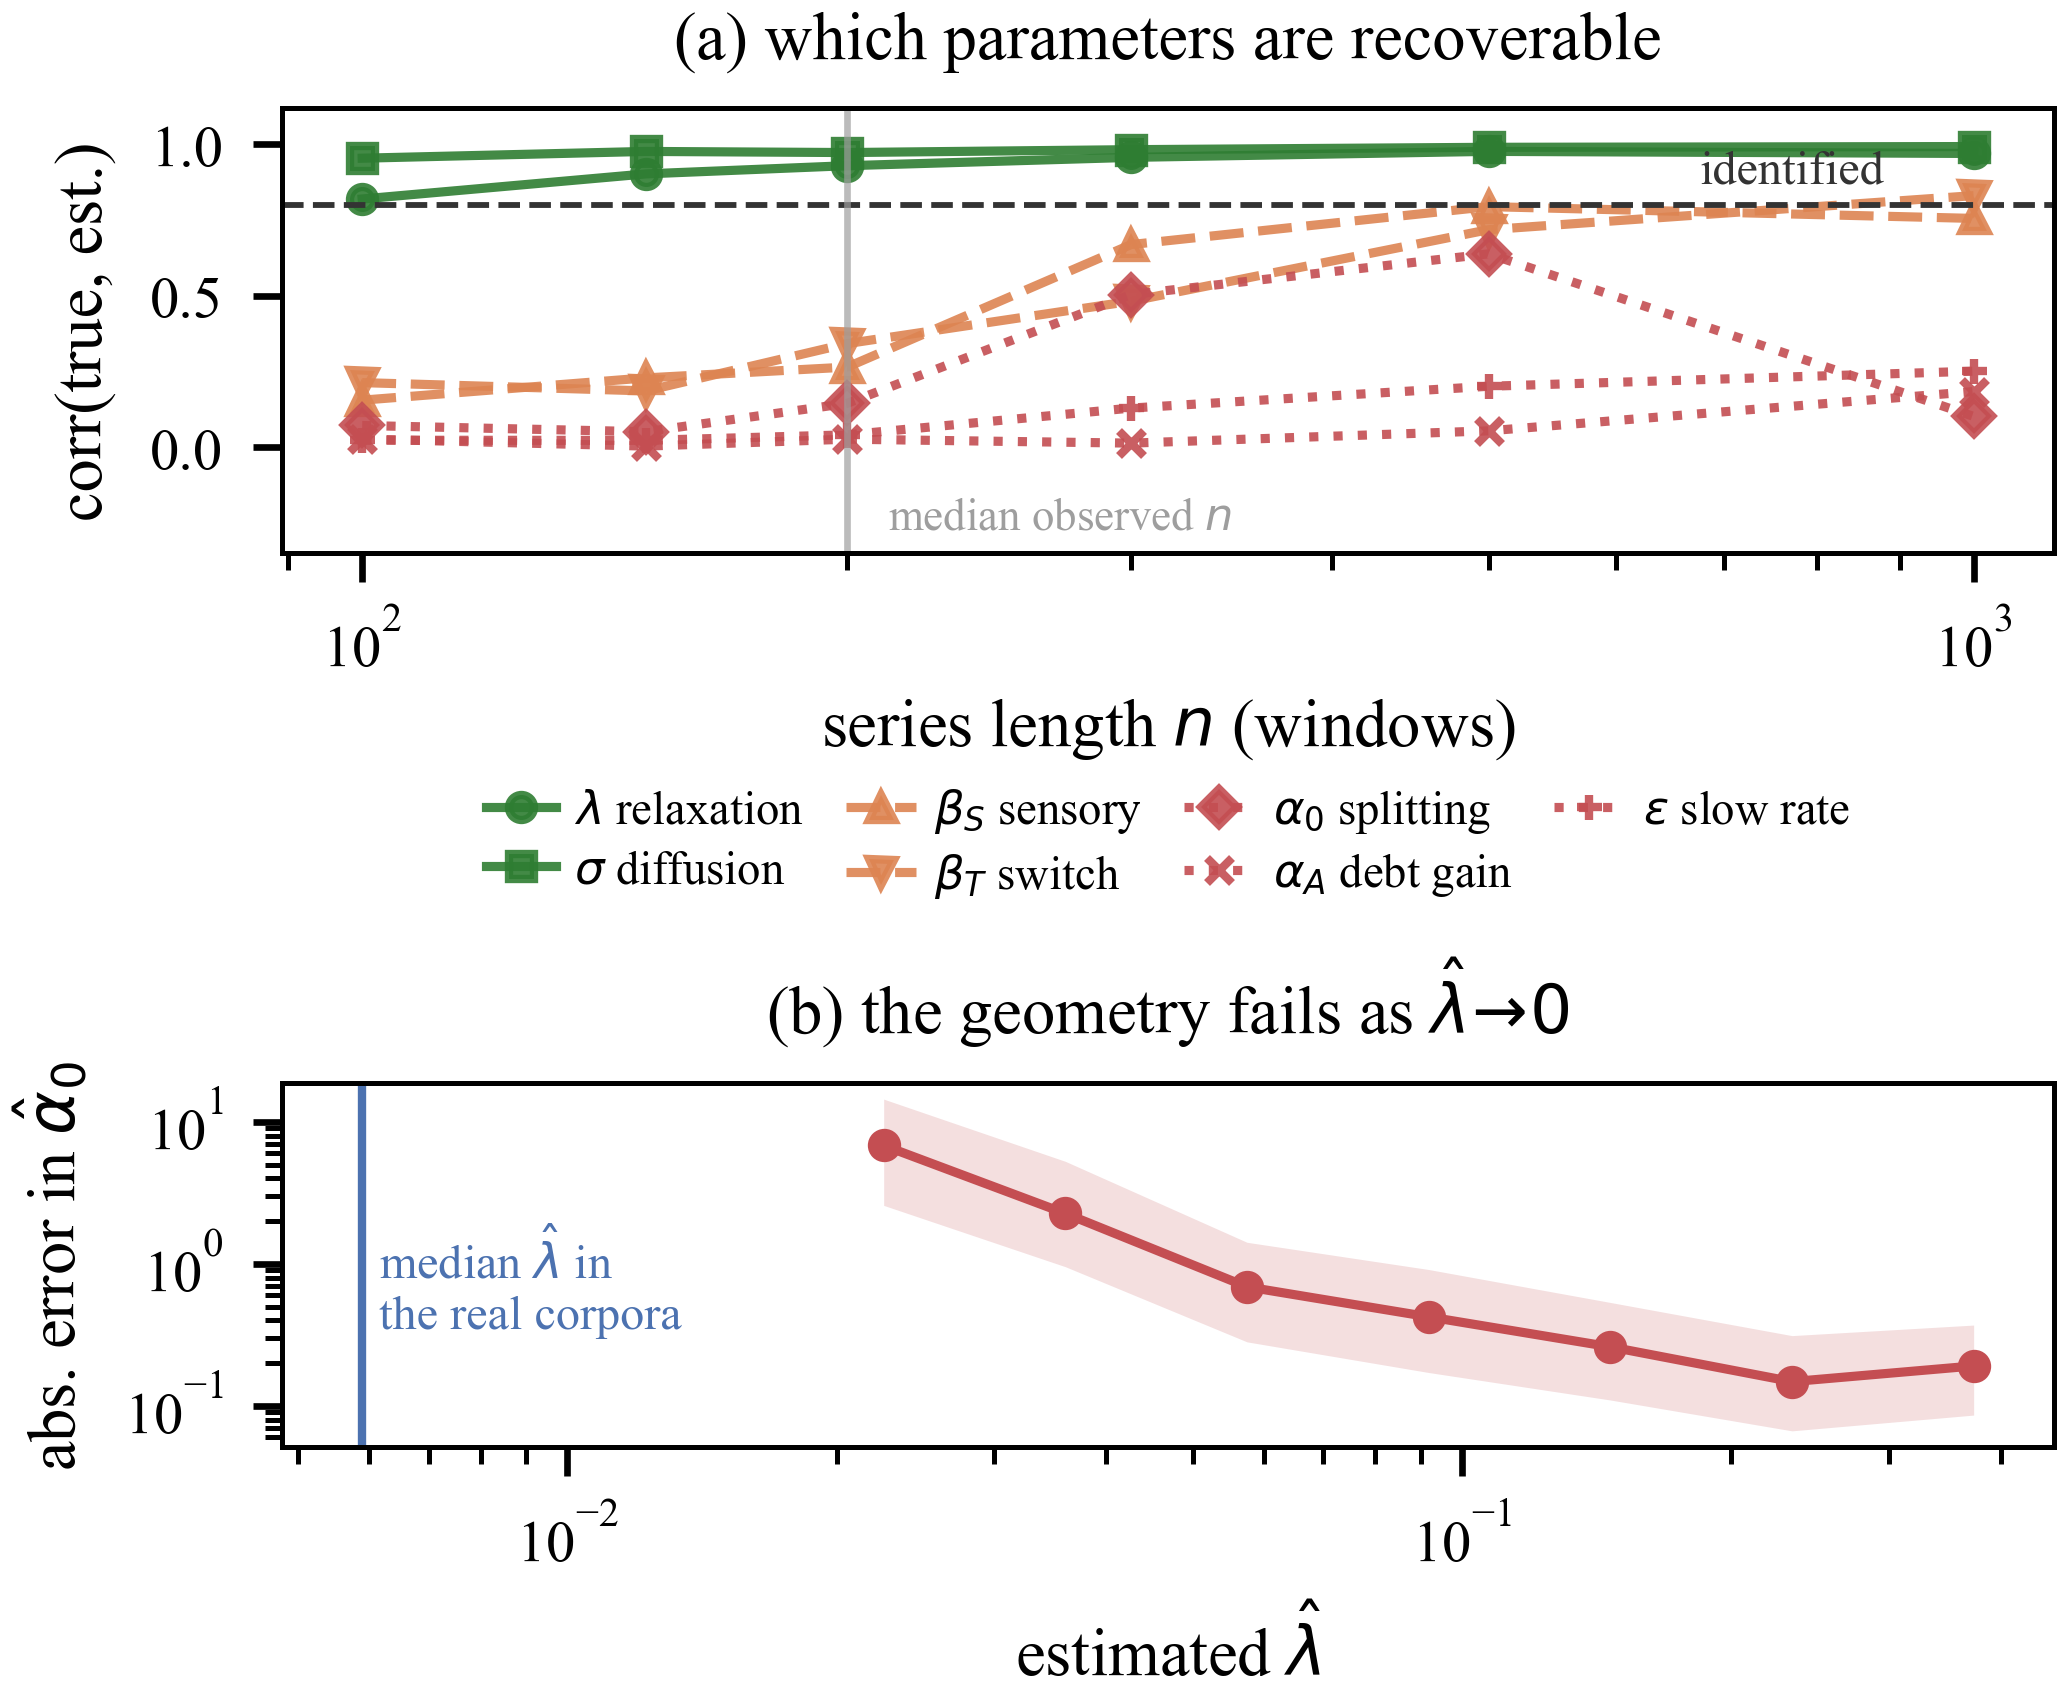
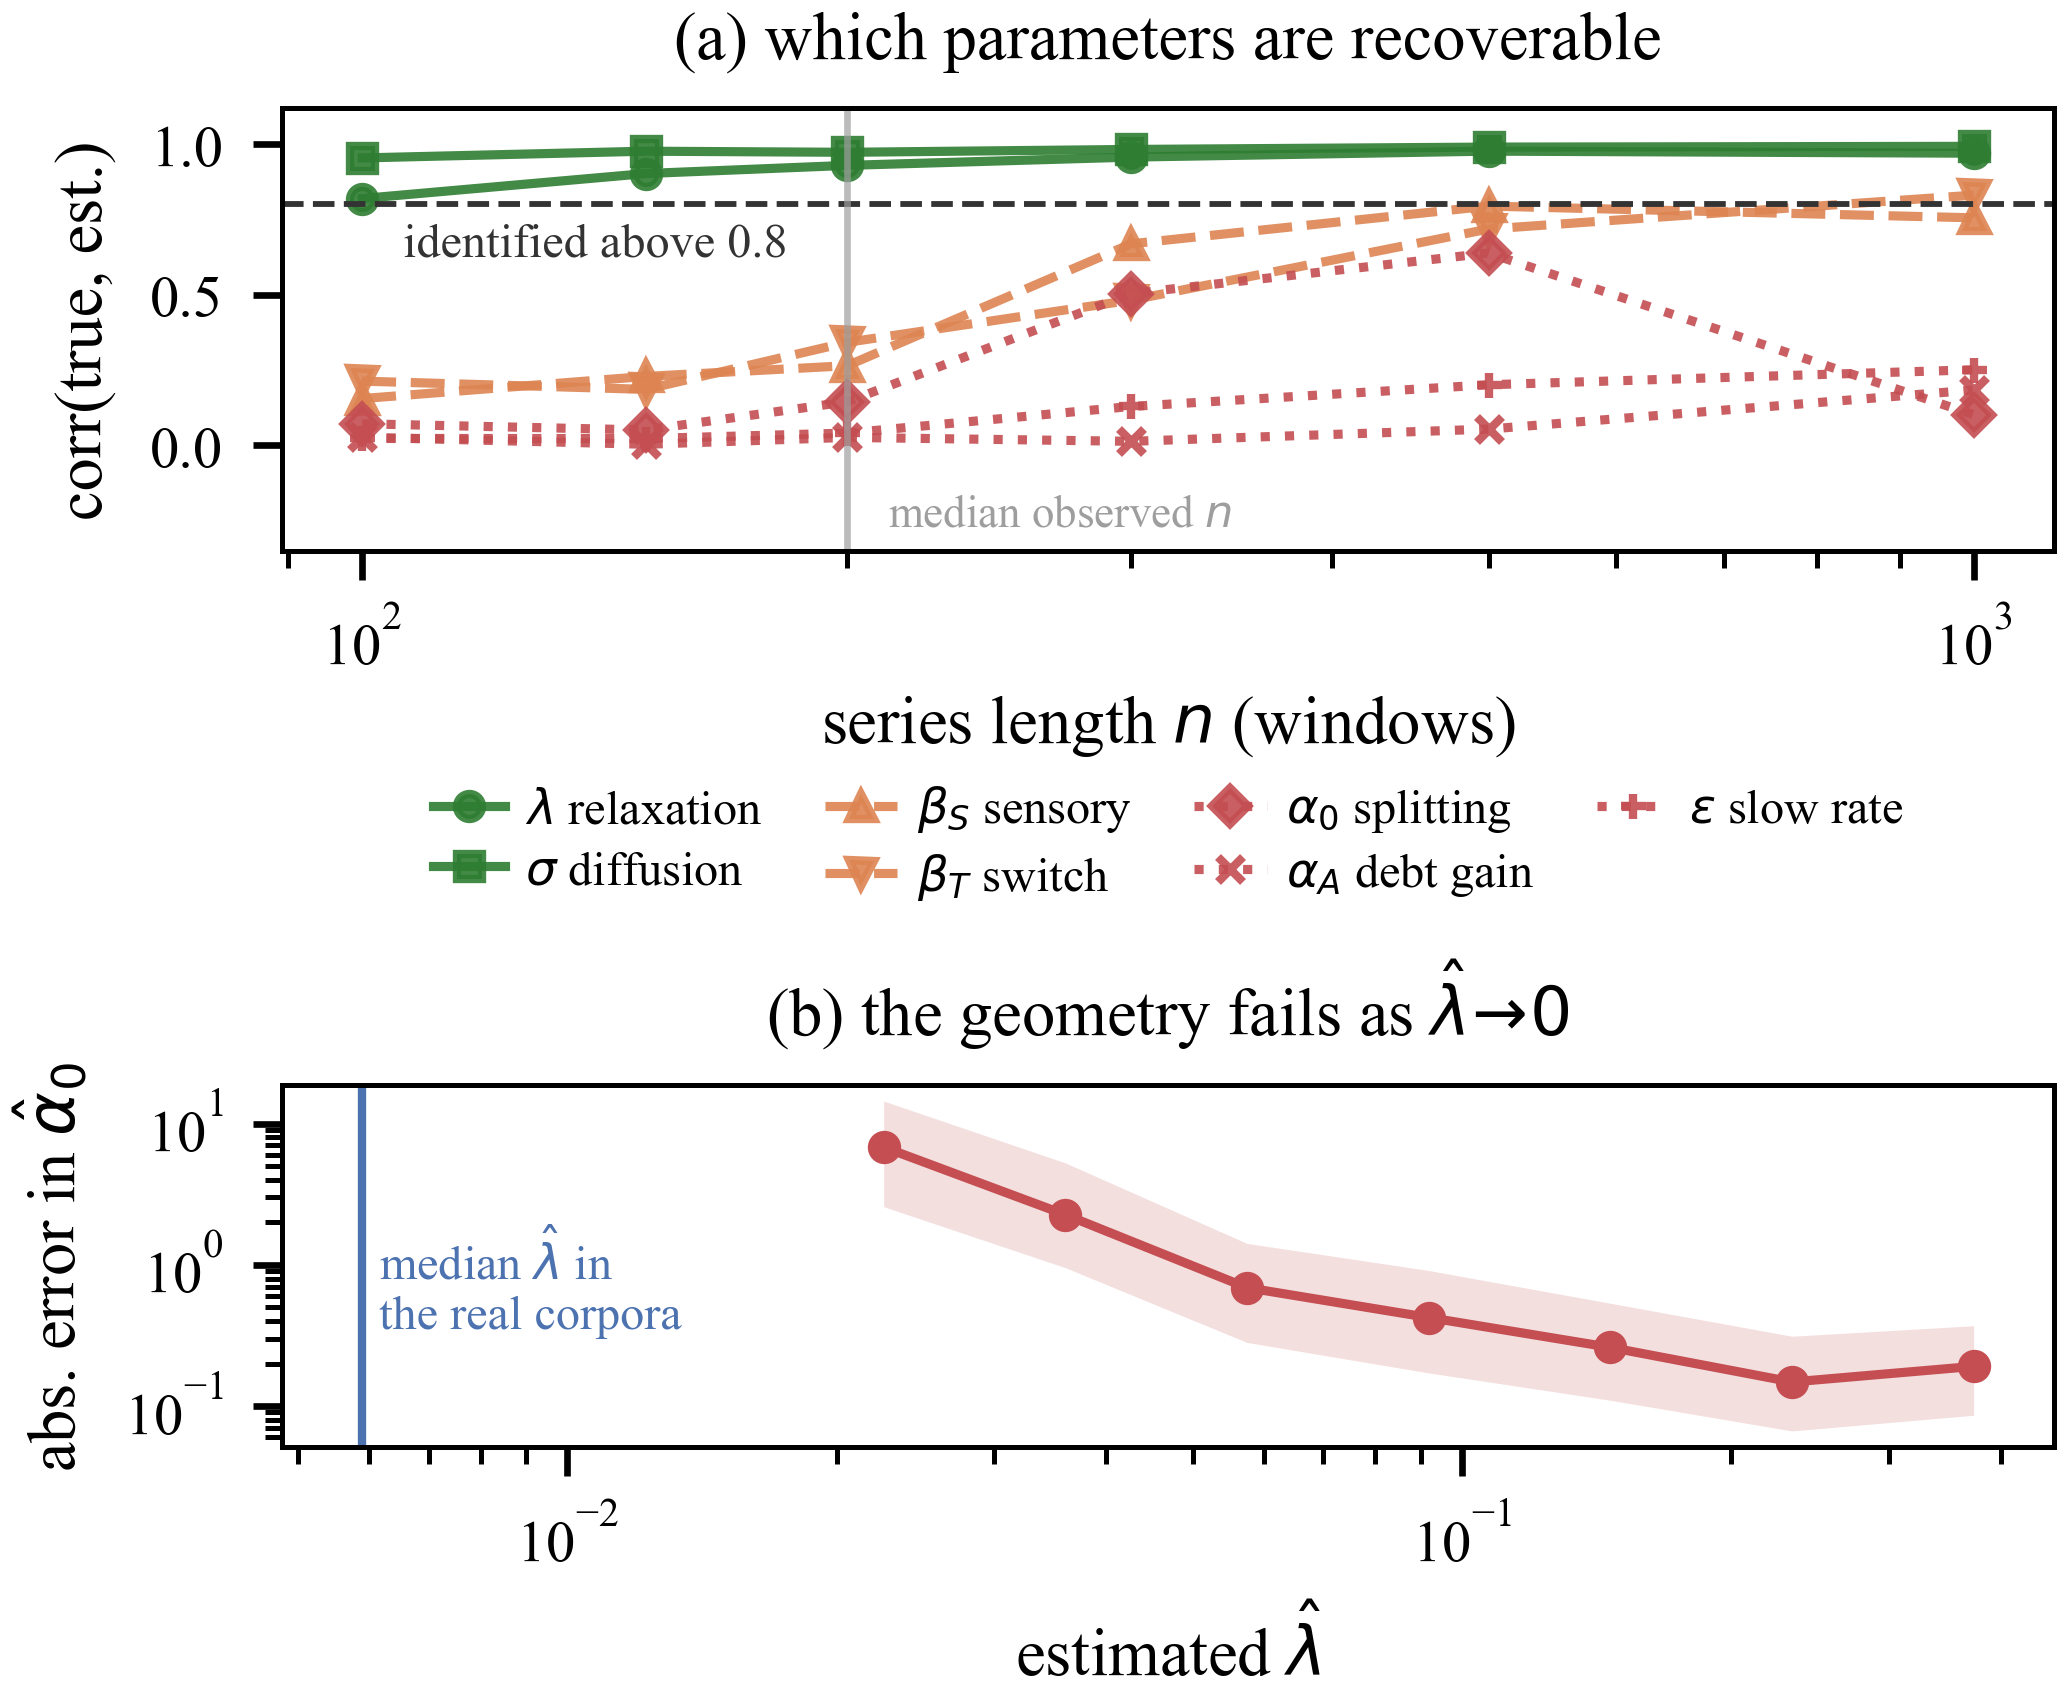
Move the Fig. 2a threshold label clear of the data
"identified" sat where the recovery curves converge on the 0.8 line. It now
reads "identified above 0.8" in the empty band below the line at short
lengths, and the legend columns get more room.

diff --git a/code/experiments/make_figures_v2.py b/code/experiments/make_figures_v2.py
@@ -101,8 +101,10 @@ def fig_identifiability():
             ax.plot(s["n"], s["corr"], ls, marker=mk, color=col, ms=3.0,
                     label=lab, alpha=0.9)
     ax.axhline(0.8, color=C["ref"], lw=0.7, ls="--")
-    ax.text(880, 0.84, "identified", fontsize=5.8, color=C["ref"],
-            ha="right", va="bottom")
+    # Below the line at short lengths is the only empty stretch near it; at
+    # the right end the curves converge on 0.8 and would cover the label.
+    ax.text(106, 0.74, "identified above 0.8", fontsize=5.8, color=C["ref"],
+            ha="left", va="top")
     ax.axvline(200, color=C["grey"], lw=0.8, alpha=0.7)
     ax.text(212, -0.30, "median observed $n$", fontsize=5.4, color=C["grey"],
             ha="left", va="bottom")
@@ -114,8 +116,8 @@ def fig_identifiability():
     ax.set_ylim(-0.35, 1.12)
     ax.set_title("(a) which parameters are recoverable", fontsize=8, pad=6)
     ax.legend(frameon=False, ncol=4, loc="upper center",
-              bbox_to_anchor=(0.5, -0.46), fontsize=5.6,
-              handlelength=1.5, handletextpad=0.4, columnspacing=0.9,
+              bbox_to_anchor=(0.5, -0.46), fontsize=5.8,
+              handlelength=1.5, handletextpad=0.4, columnspacing=1.3,
               labelspacing=0.35, borderpad=0.1)
 
     # (b) the failure mode itself: error in alpha0 explodes as lambda-hat -> 0
